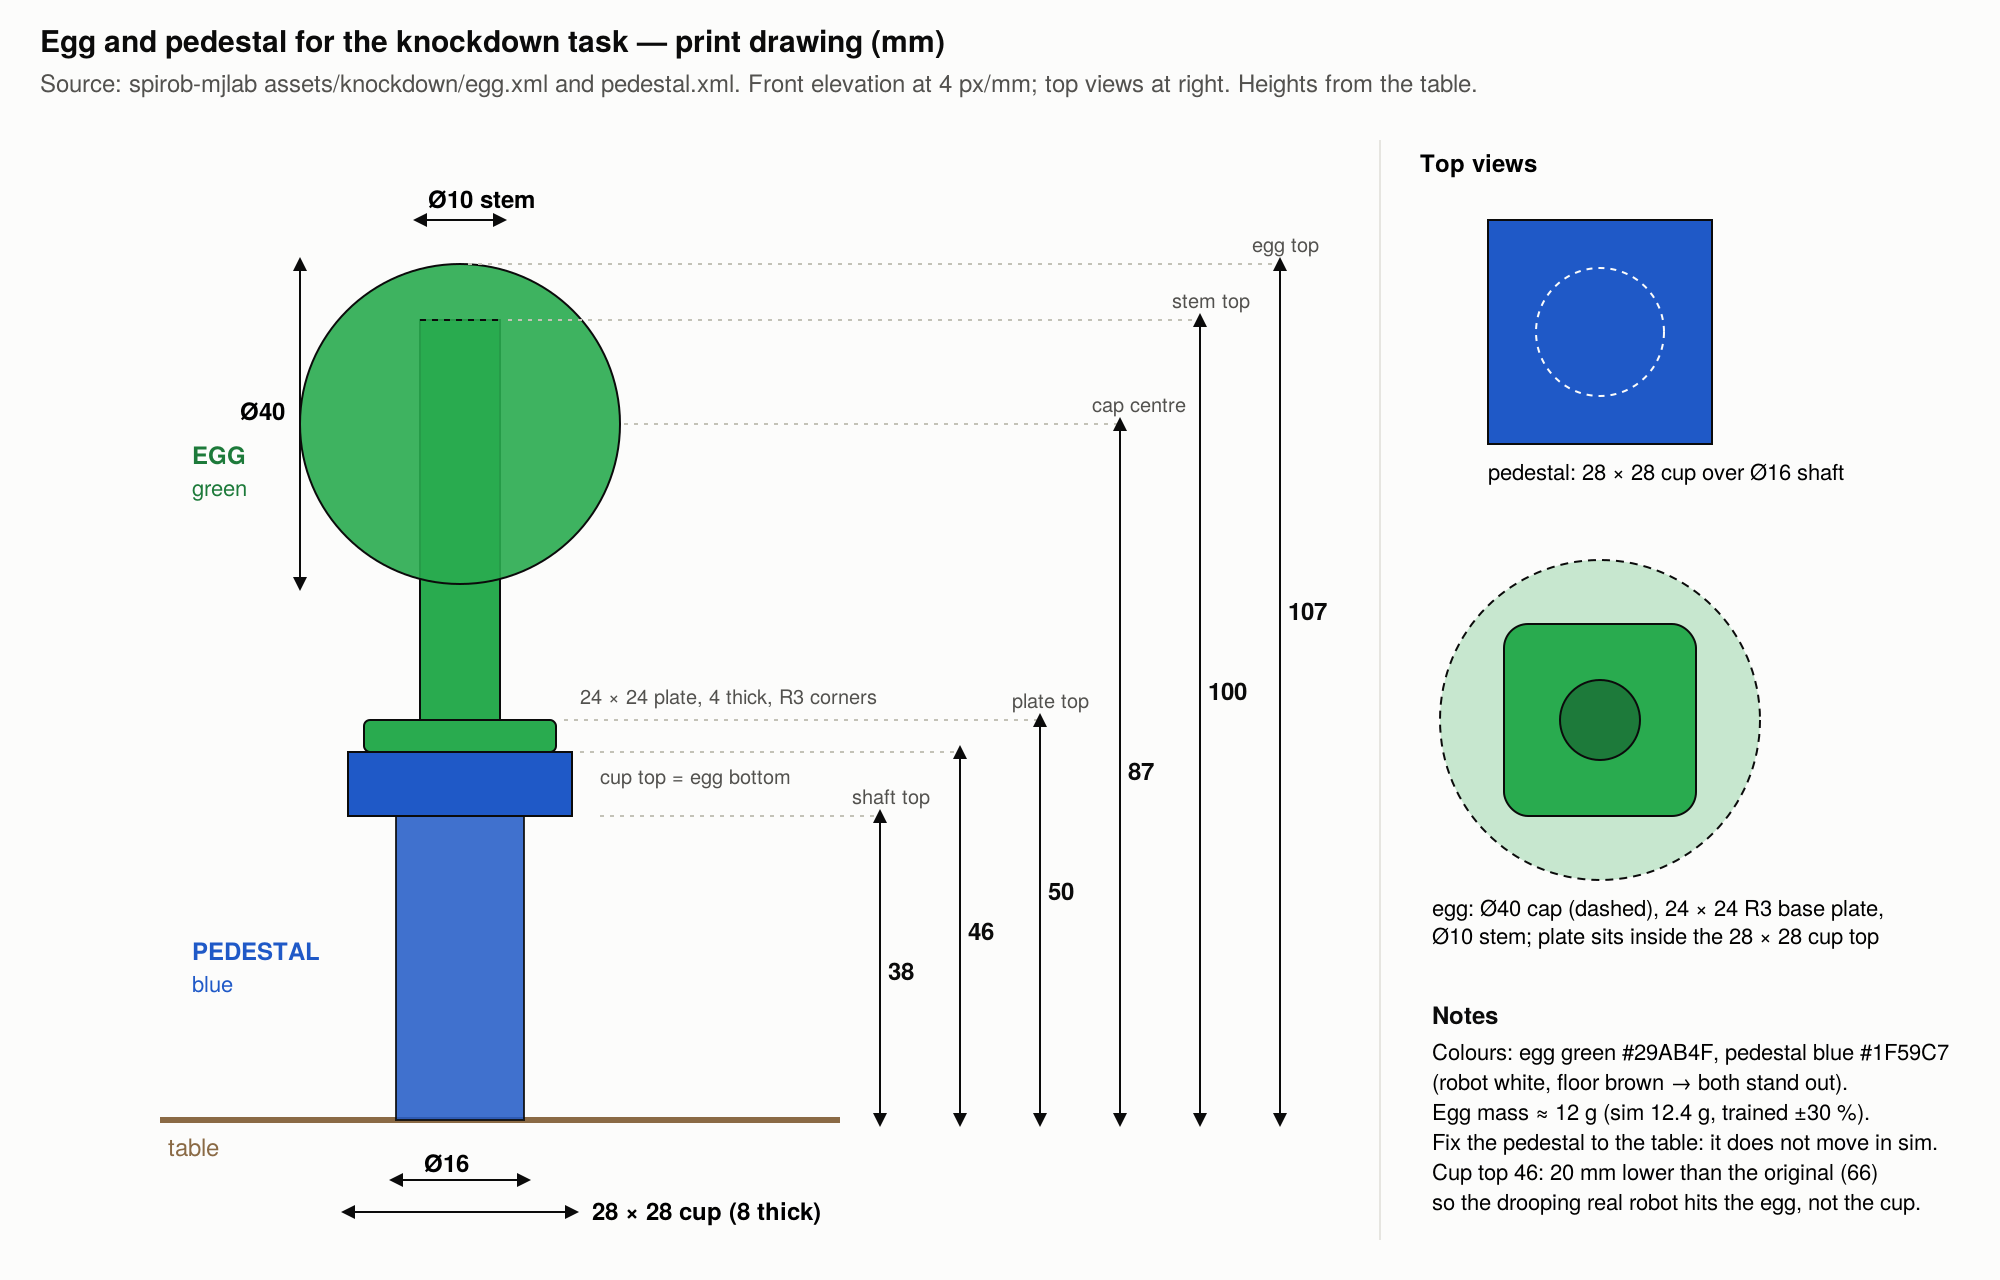
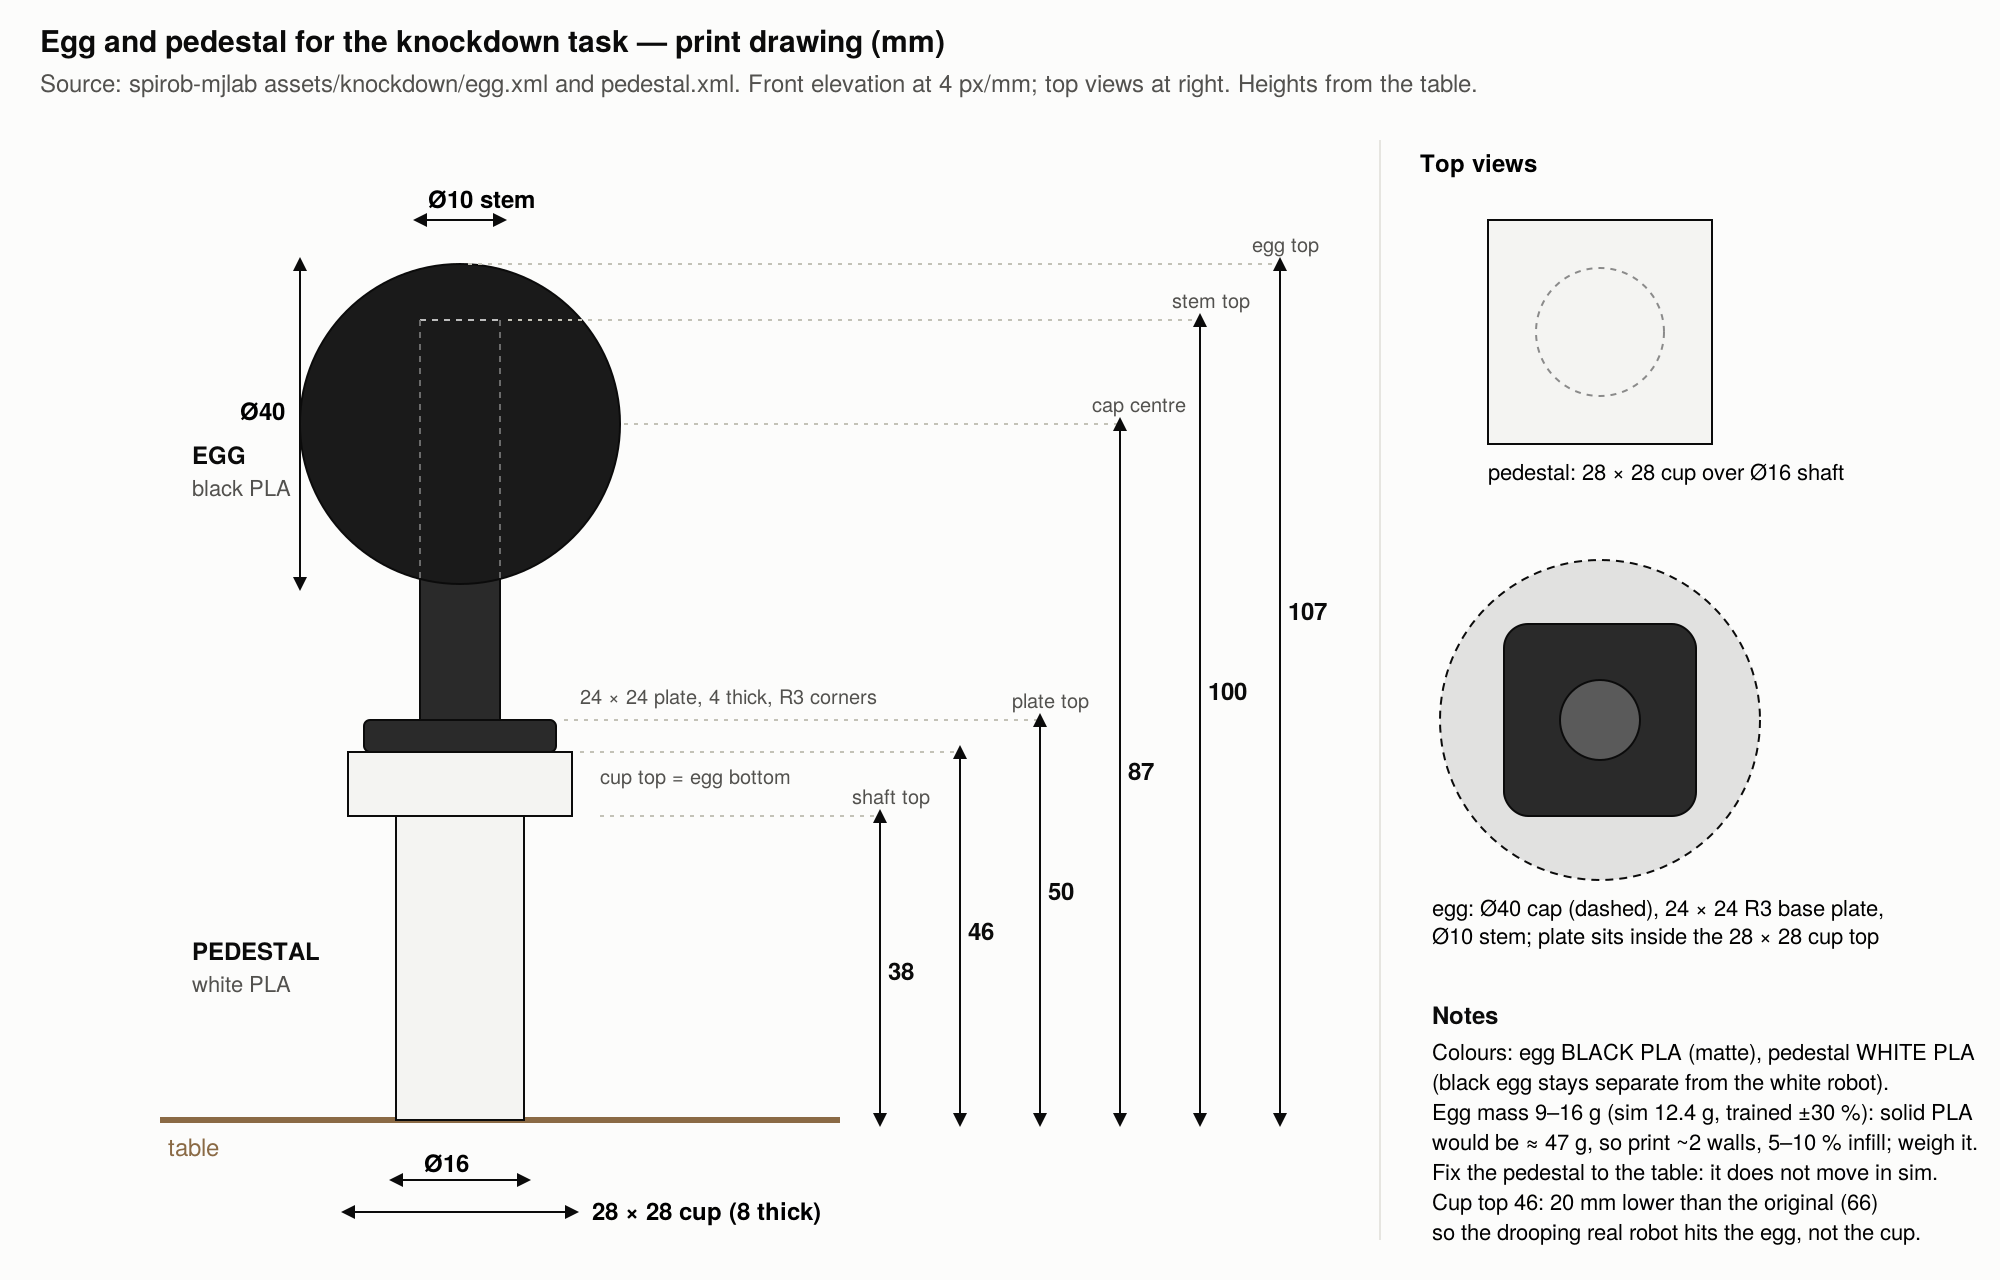
Knockdown: black PLA egg, white PLA pedestal
Only white and black PLA are available. Egg black (stays a separate blob when
the white robot touches it), pedestal white (an empty cup can never look like
the egg). Sim rgba, drawings (plus egg print mass guidance), DESIGN.md and the
README training command (wandb) updated. Robot model and physics unchanged;
19 tests pass.

Claude-Session: https://claude.ai/code/session_01Vzpn67SyPktbG7Eymf4Cnv

diff --git a/tools/knockdown/make_knockdown_assets.py b/tools/knockdown/make_knockdown_assets.py
@@ -3,8 +3,8 @@
   assets/knockdown/source/spirob_robot_k2_2.148_20261024_0318.xml   (NYK, 24 Oct 2026; verbatim)
     -> assets/knockdown/spirob_robot.xml   remove floor plane + lights (mjlab supplies the scene,
                                            matching assets/spirob_robot.xml); everything else unchanged
-  assets/spirob_egg.xml      -> assets/knockdown/egg.xml       colour only (green, for the camera)
-  assets/spirob_pedestal.xml -> assets/knockdown/pedestal.xml  colour (blue) and shaft 20 mm shorter:
+  assets/spirob_egg.xml      -> assets/knockdown/egg.xml       colour only (matte black PLA, for the camera)
+  assets/spirob_pedestal.xml -> assets/knockdown/pedestal.xml  colour (white PLA) and shaft 20 mm shorter:
                                 cup top 46 mm instead of 66 mm above the table, so the real drooping
                                 robot (base top 88 mm, tip ~70 mm) meets the egg, not the pedestal.
 The original egg/pedestal/robot assets are not modified.
@@ -17,8 +17,11 @@ A = Path(__file__).resolve().parents[2] / "src" / "spirob_mjlab" / "assets"
 K = A / "knockdown"
 SOURCE = K / "source" / "spirob_robot_k2_2.148_20261024_0318.xml"
 
-EGG_RGBA = "0.16 0.67 0.31 1"       # saturated green  (#29AB4F)
-PEDESTAL_RGBA = "0.12 0.35 0.78 1"  # saturated blue   (#1F59C7)
+# Only white and black PLA are available (NYK, 24 Oct). Egg black: dark against the brown floor and
+# the white robot, so it stays a separate blob when the robot touches it. Pedestal white: differs from
+# the black egg, so an empty cup is never mistaken for the egg.
+EGG_RGBA = "0.06 0.06 0.06 1"       # black PLA  (#101010)
+PEDESTAL_RGBA = "0.93 0.93 0.93 1"  # white PLA  (#EDEDED)
 PEDESTAL_DROP_M = 0.020
 
 
@@ -54,7 +57,7 @@ def pedestal():
     s, n2 = re.subn(r'name="ped_cup" type="box" pos="0 0 0.06"', 'name="ped_cup" type="box" pos="0 0 0.04"', s)
     assert (n1, n2) == (1, 1)
     s = s.replace('<mujoco model="SpiRob_Pedestal">',
-                  '<!-- Knockdown copy of ../spirob_pedestal.xml: blue, and 20 mm lower (cup top 46 mm above the\n'
+                  '<!-- Knockdown copy of ../spirob_pedestal.xml: white, and 20 mm lower (cup top 46 mm above the\n'
                   '     table when the pedestal root sits at z = 2 mm) so the drooping real robot meets the egg. -->\n'
                   '<mujoco model="SpiRob_Pedestal_Knockdown">')
     (K / "pedestal.xml").write_text(s)

diff --git a/src/spirob_mjlab/knockdown/entities.py b/src/spirob_mjlab/knockdown/entities.py
@@ -2,8 +2,8 @@
 
 Robot   : assets/knockdown/spirob_robot.xml  - NYK's 24 Oct model (source/ kept verbatim) with the
           floor plane and lights removed, formatted like assets/spirob_robot.xml (scene from mjlab).
-Egg     : assets/knockdown/egg.xml       - spirob_egg.xml, green.
-Pedestal: assets/knockdown/pedestal.xml  - spirob_pedestal.xml, blue, 20 mm lower (fixed mocap prop).
+Egg     : assets/knockdown/egg.xml       - spirob_egg.xml, black.
+Pedestal: assets/knockdown/pedestal.xml  - spirob_pedestal.xml, white, 20 mm lower (fixed mocap prop).
 Regenerate with tools/knockdown/make_knockdown_assets.py; MODEL_MANIFEST.json records hashes.
 """
 

diff --git a/tests/test_knockdown_contract.py b/tests/test_knockdown_contract.py
@@ -65,7 +65,9 @@ def test_pedestal_lowered_and_coloured():
     cup = s.geom("ped_cup").id
     top = d.geom_xpos[cup][2] + s.geom_size[cup][2] + mdp.PEDESTAL_ROOT_Z
     assert np.isclose(top, C.DEFAULT.success.sim_support_top_z_m, atol=1e-9)
-    assert np.allclose(s.geom_rgba[cup][:3], [0.12, 0.35, 0.78])
+    assert np.allclose(s.geom_rgba[cup][:3], [0.93, 0.93, 0.93])
+    egg = mujoco.MjSpec.from_file(str(EGG_XML)).compile()
+    assert np.allclose(egg.geom_rgba[:, :3], 0.06)
 
 
 def test_pose_table_matches_model():

diff --git a/src/spirob_mjlab/knockdown/contract.py b/src/spirob_mjlab/knockdown/contract.py
@@ -97,7 +97,7 @@ class SuccessSpec:
     sim_fall_margin_m: float = 0.005
     hw_off_radius_m: float = 0.035           # egg seen this far from its start ...
     hw_confirm_s: float = 0.5                # ... for this long
-    hw_empty_cup_s: float = 0.7              # or: blue cup visible at the start, no egg near it, this long
+    hw_empty_cup_s: float = 0.7              # or: empty (white) cup visible at the start, no egg near it, this long
     hw_cup_match_m: float = 0.015
 
 

diff --git a/docs/knockdown/DESIGN.md b/docs/knockdown/DESIGN.md
@@ -120,7 +120,7 @@ touched by the robot) › spontaneous fall › egg out of bounds › time-out.
 
 **Rig success** (camera only), either:
 1. egg seen > 35 mm from its start for ≥ 0.5 s, or
-2. the empty blue cup is seen at the start position with no egg within 35 mm for ≥ 0.7 s
+2. the empty white cup is seen at the start position with no egg within 35 mm for ≥ 0.7 s
    (covers an egg knocked out of frame).
 
 ## 7. Human-in-the-loop on the rig (auto-continue)
@@ -130,17 +130,23 @@ pedestal somewhere new. The next episode starts by itself once the scene has bee
 still for 2 s (hand gone), the egg has been stable within 2 mm, and it is > 25 mm from
 the robot. In training this is simply an episode reset from a random curled shape.
 
-## 8. Colours
+## 8. Colours (only white and black PLA available)
 
-| Object | Colour | Sim rgba | Hex |
-|---|---|---|---|
-| Robot | white (as built) | — | — |
-| Floor | cardboard brown | — | — |
-| Egg | saturated green | 0.16 0.67 0.31 | #29AB4F |
-| Pedestal | saturated blue | 0.12 0.35 0.78 | #1F59C7 |
+| Object | Colour | Sim rgba |
+|---|---|---|
+| Robot | white (as built) | — |
+| Floor | cardboard brown | — |
+| Egg | **black PLA** (matte if possible) | 0.06 0.06 0.06 |
+| Pedestal | **white PLA** | 0.93 0.93 0.93 |
 
-Green and blue are far in hue from brown and far in saturation from white; avoid
-red, orange or yellow (close to cardboard).
+Why this way round: the egg is the object tracked every frame, so it must stay a
+separate blob when the white robot touches it; black does, white would merge with the
+robot. The empty cup must never look like the egg; a white cup cannot be mistaken for
+a black egg (a black cup could, and success would then never be detected). The one
+look-alike for a black egg is a hard robot shadow, so use soft overhead light; the
+detector also rejects blobs of the wrong size or shape (Lab test: robot + shadow +
+empty cup in view → no egg reported). The policy never sees colours; they matter only
+for the Lab detector and its twin.
 
 ## 9. Commands
 

diff --git a/README.md b/README.md
@@ -530,7 +530,9 @@ uv run train Mjlab-SpiRob-EggKnockdown-Fixed --env.scene.num-envs 64 --agent.max
   --agent.seed 1 --agent.logger tensorboard --agent.run-name kd-smoke-v2
 # training
 uv run train Mjlab-SpiRob-EggKnockdown --env.scene.num-envs 512 --agent.max-iterations 300 \
-  --agent.seed 1 --agent.logger tensorboard --agent.run-name kd-main-v2-s1
+  --agent.seed 1 --agent.logger wandb --agent.wandb-project spirob-knockdown --agent.run-name kd-main-v2-s1
+# share a run for review (ZIP with config, scalar history and plots)
+uv run python tools/export_wandb_run_bundle.py --run ENTITY/spirob-knockdown/RUN_ID --output-root wandb_exports
 # held-out evaluation (200 episodes) and the no-action baseline
 uv run python tools/knockdown/evaluate.py --checkpoint logs/rsl_rl/spirob_knockdown/<run>/model_<i>.pt --out eval/<name>
 uv run python tools/knockdown/evaluate.py --agent zero --out eval/zero-baseline
